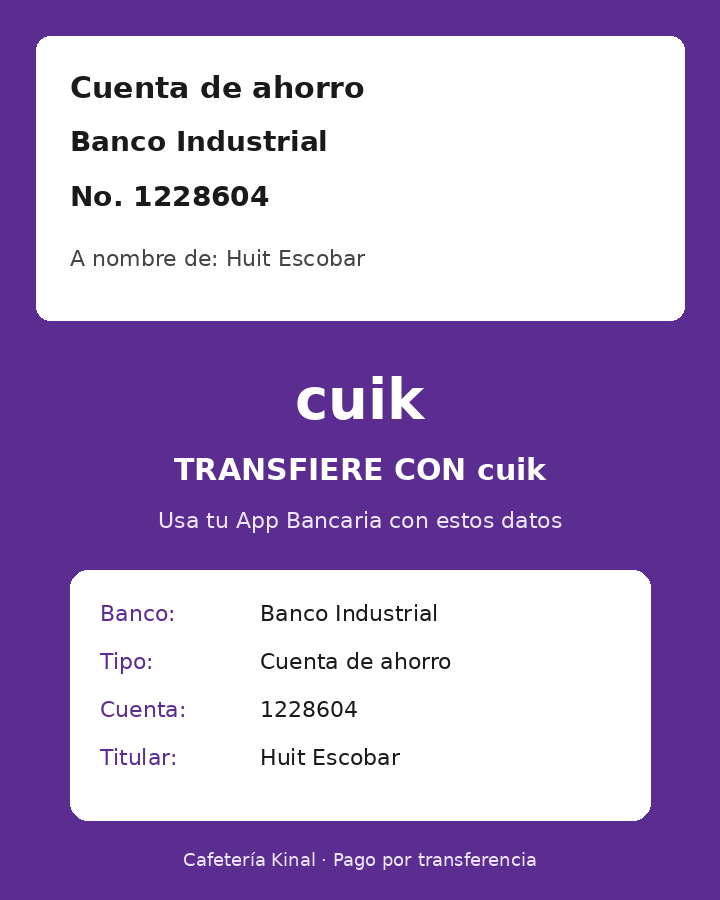
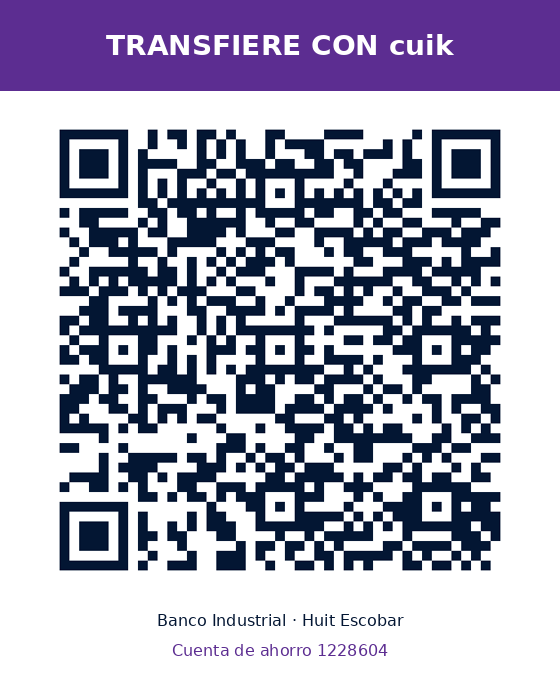
KBP-017: QR y enlace BelApp BI para pago con transferencia
Añade el link oficial de transferencia Banco Industrial y un QR
escaneable que abre BelApp/cuik, más el botón en el carrito.

diff --git a/client-customer/src/features/cart/page/CartPage.jsx b/client-customer/src/features/cart/page/CartPage.jsx
@@ -10,6 +10,7 @@ import {
   Trash2,
   Clock,
   Upload,
+  ExternalLink,
 } from "lucide-react";
 import toast from "react-hot-toast";
 import { TRANSFER_PAYMENT } from "../../../shared/config/ordering";
@@ -177,20 +178,28 @@ export function CartPage() {
             {metodoPago === "Transferencia" && (
               <div className="space-y-3 border-2 border-[#031633] rounded-2xl p-4 bg-[#f5f3f6]">
                 <p className="text-[10px] font-black uppercase text-[#031633]">
-                  Pago con transferencia (cuik)
+                  Pago con transferencia (BelApp / cuik)
                 </p>
                 <p className="text-[10px] font-bold text-[#031633]/80">
                   {TRANSFER_PAYMENT.instruccion}
                 </p>
                 <div className="flex flex-col sm:flex-row gap-4 items-center">
-                  <img
-                    src={TRANSFER_PAYMENT.qrUrl}
-                    alt="Datos y QR transferencia cafetería"
-                    className="w-full max-w-[220px] object-contain bg-white border-2 border-[#031633] rounded-xl"
-                    onError={(e) => {
-                      e.currentTarget.style.display = "none";
-                    }}
-                  />
+                  <a
+                    href={TRANSFER_PAYMENT.transferLink}
+                    target="_blank"
+                    rel="noreferrer"
+                    className="shrink-0"
+                    title="Abrir enlace de transferencia"
+                  >
+                    <img
+                      src={TRANSFER_PAYMENT.qrUrl}
+                      alt="QR transferencia Banco Industrial"
+                      className="w-full max-w-[220px] object-contain bg-white border-2 border-[#031633] rounded-xl"
+                      onError={(e) => {
+                        e.currentTarget.style.display = "none";
+                      }}
+                    />
+                  </a>
                   <div className="text-xs font-bold text-[#031633] space-y-1 w-full">
                     <p>
                       <span className="uppercase text-[#ff8928]">Banco:</span> {TRANSFER_PAYMENT.banco}
@@ -210,6 +219,14 @@ export function CartPage() {
                     <p className="text-[10px] text-[#031633]/70 pt-1">
                       Referencia: tu correo o carné. Monto: Q{totalTemporal.toFixed(2)}
                     </p>
+                    <a
+                      href={TRANSFER_PAYMENT.transferLink}
+                      target="_blank"
+                      rel="noreferrer"
+                      className="mt-2 inline-flex items-center gap-1.5 bg-[#5c2d91] text-white font-black px-3 py-2.5 rounded-xl border-2 border-[#031633] shadow-[2px_2px_0_0_#031633] uppercase text-[10px] cursor-pointer"
+                    >
+                      Abrir enlace de transferencia <ExternalLink size={12} />
+                    </a>
                   </div>
                 </div>
 

diff --git a/client-customer/src/shared/config/ordering.js b/client-customer/src/shared/config/ordering.js
@@ -1,15 +1,19 @@
-/** Datos bancarios para pago por transferencia (cafetería / cuik).
+/** Datos bancarios para pago por transferencia (cafetería / cuik / BelApp BI).
  *  Sustituye VITE_* en Render si cambian. Imagen: public/transferencia-qr.png
  */
+const DEFAULT_TRANSFER_LINK =
+  'https://belappgt.bi.com.gt/qr?type=tm&qrdata=6a5a4879080850317573673afc9affd7cc26246035a9043b2838e71fb1bb0557';
+
 export const TRANSFER_PAYMENT = {
   banco: import.meta.env.VITE_BANK_NAME || 'Banco Industrial',
   tipoCuenta: import.meta.env.VITE_BANK_ACCOUNT_TYPE || 'Cuenta de ahorro',
   numeroCuenta: import.meta.env.VITE_BANK_ACCOUNT_NUMBER || '1228604',
   titular: import.meta.env.VITE_BANK_HOLDER || 'Huit Escobar',
   qrUrl: import.meta.env.VITE_BANK_QR_URL || '/transferencia-qr.png',
+  transferLink: import.meta.env.VITE_BANK_TRANSFER_LINK || DEFAULT_TRANSFER_LINK,
   instruccion:
     import.meta.env.VITE_BANK_INSTRUCTION ||
-    'Transfiere con cuik · Escanea el QR desde tu App Bancaria o usa estos datos',
+    'Escanea el QR con tu app bancaria o abre el enlace para pagar con BelApp / cuik',
 };
 
 /** Ventanas de recogida (HH:MM) */
